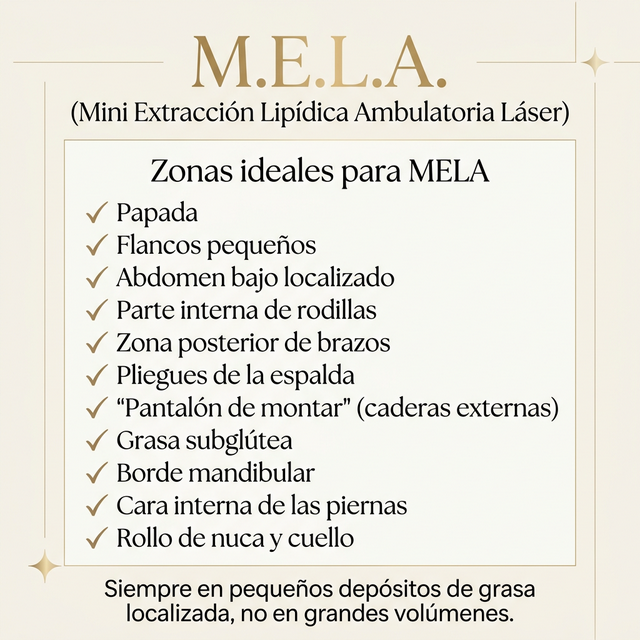
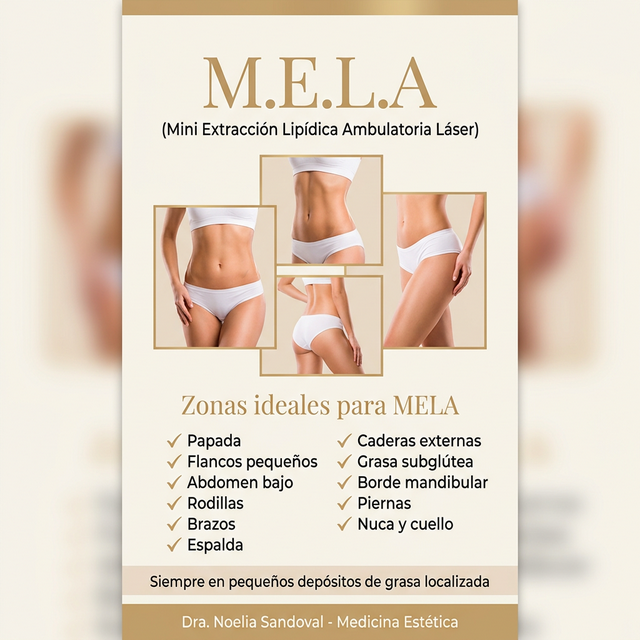
feat: redesign ozonoterapia/sueroterapia/MELA infographics from scratch, fix image containers to not crop

diff --git a/styles.css b/styles.css
@@ -923,14 +923,15 @@ ul {
 }
 
 .regenerativa-image-wrap {
-    height: 280px;
+    position: relative;
     overflow: hidden;
 }
 
 .regenerativa-image-wrap img {
     width: 100%;
     height: 100%;
-    object-fit: cover;
+    object-fit: contain;
+    background: var(--cream);
     transition: transform var(--transition-slow);
 }
 
@@ -1492,4 +1493,10 @@ ul {
     .section-header {
         margin-bottom: 40px;
     }
+}
+
+/* Infographic images - show full without cropping */
+.card-image-wrap--contain img {
+    object-fit: contain;
+    background: var(--cream);
 }

diff --git a/index.html b/index.html
@@ -576,7 +576,7 @@
 
         <!-- Card 13: M.E.L.A. -->
         <article class="treatment-card animate-on-scroll" id="card-mela">
-            <div class="card-image-wrap">
+            <div class="card-image-wrap card-image-wrap--contain">
                 <img src="assets/images/mela-infographic.png" alt="Mini Extracción Lipídica Ambulatoria Láser" loading="lazy"
                    >
                 <div class="card-image-overlay"></div>
